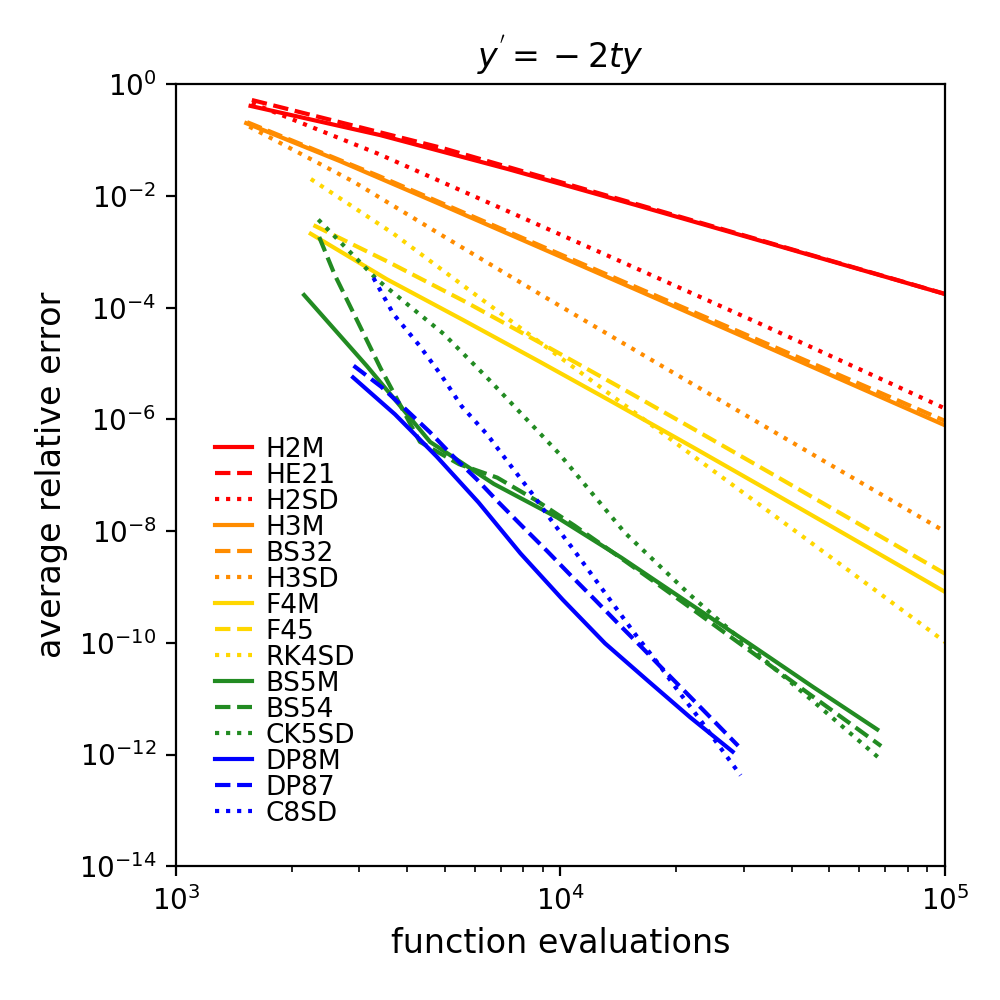
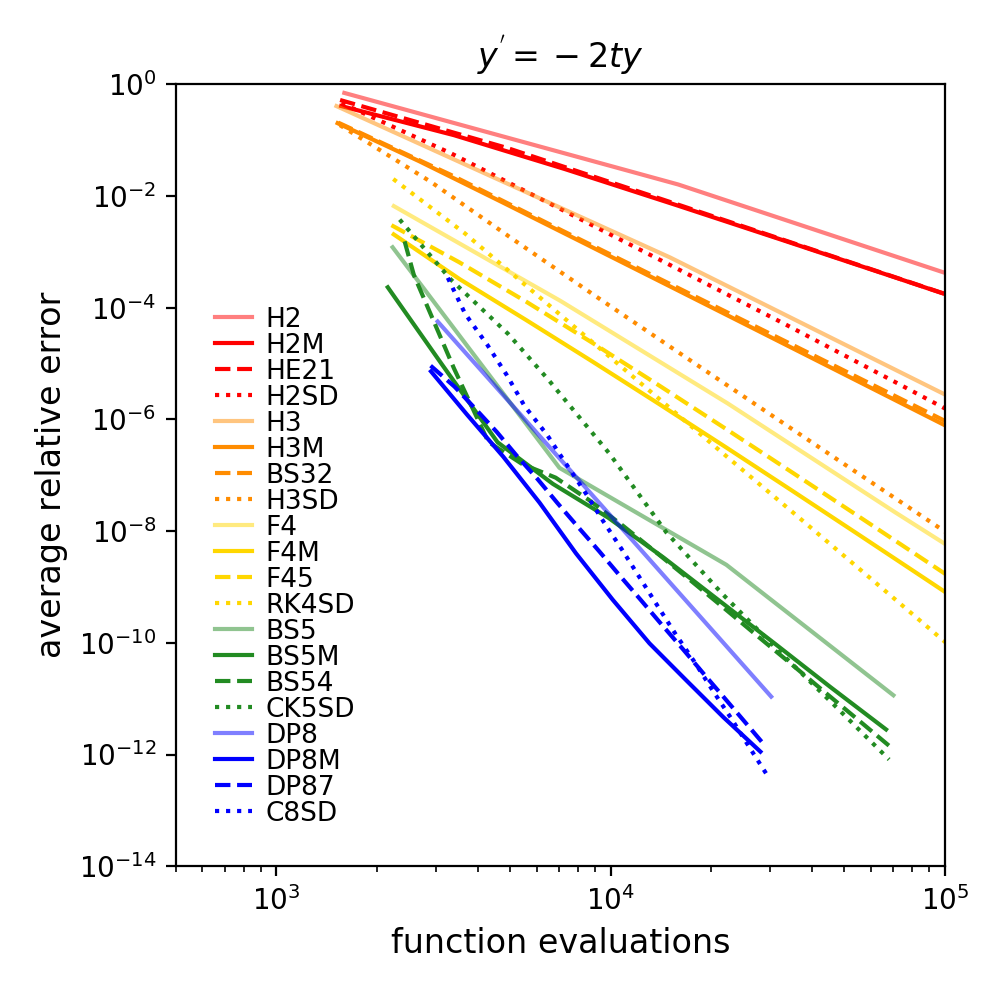
added fixed time step to efficiency plot

diff --git a/test_efficiency_explicit.py b/test_efficiency_explicit.py
@@ -74,7 +74,7 @@ if solution is 'logistic':
 
 if order == 0 or order == 2:
     if solution is 'gaussian':
-        eps_0 = 10**np.arange(-0.57, -4., -1)
+        eps_0 = 10**np.arange(-1.6, -4., -1)
         eps_1 = 10**np.arange(-2.25, -9.25, -1)
         eps_2 = 4 * 10**np.arange(-2., -7., -1)
         eps_3 = 4 * 10**np.arange(-2.4, -9., -1)
@@ -101,7 +101,7 @@ if order == 0 or order == 2:
     error_2, evals_2 = method_efficiency(y0, t0, tf, y_prime, parameters, adaptive_2, method_RK2_2, eps_2, norm, error_type, average_error)
     error_3, evals_3 = method_efficiency(y0, t0, tf, y_prime, parameters, adaptive_3, method_RK2_3, eps_3, norm, error_type, average_error)
 
-    np.savetxt('efficiency_plots/' + solution + '/data/efficiency_RK2.dat',     np.concatenate((error_0, evals_0), axis = 1))
+    np.savetxt('efficiency_plots/' + solution + '/data/efficiency_RK2.dat',   np.concatenate((error_0, evals_0), axis = 1))
     np.savetxt('efficiency_plots/' + solution + '/data/efficiency_RK2_M.dat', np.concatenate((error_1, evals_1), axis = 1))
     np.savetxt('efficiency_plots/' + solution + '/data/efficiency_RK2_E.dat', np.concatenate((error_2, evals_2), axis = 1))
     np.savetxt('efficiency_plots/' + solution + '/data/efficiency_RK2_D.dat', np.concatenate((error_3, evals_3), axis = 1))
@@ -121,6 +121,7 @@ error_RK2_3, evals_RK2_3 = efficiency_3[:,0], efficiency_3[:,1]
 
 # RK3 peformance
 #---------------------------------------------------------------------------
+method_RK3_0 = 'H3'
 method_RK3_1 = 'H3'
 method_RK3_2 = 'BS32'
 method_RK3_3 = 'H3'
@@ -131,6 +132,8 @@ if solution is 'inverse_power':
 
 if order == 0 or order == 3:
     if solution is 'gaussian':
+        # eps_0 = 10**np.arange(-0.4, -4., -1)
+        eps_0 = 10**np.arange(-1.4, -4., -1)
         eps_1 = 10**np.arange(-2.2, -11.2, -1)
         eps_2 = 10**np.arange(-2.8, -8.8, -1)
         eps_3 = 10**np.arange(-2.1, -11., -1)
@@ -151,18 +154,22 @@ if order == 0 or order == 3:
         eps_2 = 10**np.arange(-5., -10., -1)
         eps_3 = 10**np.arange(-3.9, -11., -1)
 
+    error_0, evals_0 = method_efficiency(y0, t0, tf, y_prime, parameters, adaptive_0, method_RK3_0, eps_0, norm, error_type, average_error)
     error_1, evals_1 = method_efficiency(y0, t0, tf, y_prime, parameters, adaptive_1, method_RK3_1, eps_1, norm, error_type, average_error)
     error_2, evals_2 = method_efficiency(y0, t0, tf, y_prime, parameters, adaptive_2, method_RK3_2, eps_2, norm, error_type, average_error)
     error_3, evals_3 = method_efficiency(y0, t0, tf, y_prime, parameters, adaptive_3, method_RK3_3, eps_3, norm, error_type, average_error)
 
+    np.savetxt('efficiency_plots/' + solution + '/data/efficiency_RK3.dat',   np.concatenate((error_0, evals_0), axis = 1))
     np.savetxt('efficiency_plots/' + solution + '/data/efficiency_RK3_M.dat', np.concatenate((error_1, evals_1), axis = 1))
     np.savetxt('efficiency_plots/' + solution + '/data/efficiency_RK3_E.dat', np.concatenate((error_2, evals_2), axis = 1))
     np.savetxt('efficiency_plots/' + solution + '/data/efficiency_RK3_D.dat', np.concatenate((error_3, evals_3), axis = 1))
 
+efficiency_0 = np.loadtxt('efficiency_plots/' + solution + '/data/efficiency_RK3.dat')
 efficiency_1 = np.loadtxt('efficiency_plots/' + solution + '/data/efficiency_RK3_M.dat')
 efficiency_2 = np.loadtxt('efficiency_plots/' + solution + '/data/efficiency_RK3_E.dat')
 efficiency_3 = np.loadtxt('efficiency_plots/' + solution + '/data/efficiency_RK3_D.dat')
 
+error_RK3_0, evals_RK3_0 = efficiency_0[:,0], efficiency_0[:,1]
 error_RK3_1, evals_RK3_1 = efficiency_1[:,0], efficiency_1[:,1]
 error_RK3_2, evals_RK3_2 = efficiency_2[:,0], efficiency_2[:,1]
 error_RK3_3, evals_RK3_3 = efficiency_3[:,0], efficiency_3[:,1]
@@ -172,15 +179,16 @@ error_RK3_3, evals_RK3_3 = efficiency_3[:,0], efficiency_3[:,1]
 
 # RK4 peformance
 #---------------------------------------------------------------------------
+method_RK4_0 = 'F4'
 method_RK4_1 = 'F4'
 method_RK4_2 = 'F45'
 method_RK4_3 = 'RK4'
 
 if order == 0 or order == 4:
     if solution is 'gaussian':
+        eps_0 = 10**np.arange(-1.35, -3.85, -0.5)
         eps_1 = 10**np.arange(-2.5, -12., -1)
         eps_2 = 10**np.arange(-4., -14., -1)
-        # eps_2 = 10**np.arange(-1., -4., -1)   # for F41
         eps_3 = 10**np.arange(-3.1, -13., -1)
     elif solution is 'logistic':
         eps_1 = 10**np.arange(-8.5, -20., -1)
@@ -200,18 +208,22 @@ if order == 0 or order == 4:
         eps_2 = 10**np.arange(-5.5, -13., -1)
         eps_3 = 10**np.arange(-4.6, -13., -1)
 
+    error_0, evals_0 = method_efficiency(y0, t0, tf, y_prime, parameters, adaptive_0, method_RK4_0, eps_0, norm, error_type, average_error)
     error_1, evals_1 = method_efficiency(y0, t0, tf, y_prime, parameters, adaptive_1, method_RK4_1, eps_1, norm, error_type, average_error)
     error_2, evals_2 = method_efficiency(y0, t0, tf, y_prime, parameters, adaptive_2, method_RK4_2, eps_2, norm, error_type, average_error)
     error_3, evals_3 = method_efficiency(y0, t0, tf, y_prime, parameters, adaptive_3, method_RK4_3, eps_3, norm, error_type, average_error)
 
+    np.savetxt('efficiency_plots/' + solution + '/data/efficiency_RK4.dat',   np.concatenate((error_0, evals_0), axis = 1))
     np.savetxt('efficiency_plots/' + solution + '/data/efficiency_RK4_M.dat', np.concatenate((error_1, evals_1), axis = 1))
     np.savetxt('efficiency_plots/' + solution + '/data/efficiency_RK4_E.dat', np.concatenate((error_2, evals_2), axis = 1))
     np.savetxt('efficiency_plots/' + solution + '/data/efficiency_RK4_D.dat', np.concatenate((error_3, evals_3), axis = 1))
 
+efficiency_0 = np.loadtxt('efficiency_plots/' + solution + '/data/efficiency_RK4.dat')
 efficiency_1 = np.loadtxt('efficiency_plots/' + solution + '/data/efficiency_RK4_M.dat')
 efficiency_2 = np.loadtxt('efficiency_plots/' + solution + '/data/efficiency_RK4_E.dat')
 efficiency_3 = np.loadtxt('efficiency_plots/' + solution + '/data/efficiency_RK4_D.dat')
 
+error_RK4_0, evals_RK4_0 = efficiency_0[:,0], efficiency_0[:,1]
 error_RK4_1, evals_RK4_1 = efficiency_1[:,0], efficiency_1[:,1]
 error_RK4_2, evals_RK4_2 = efficiency_2[:,0], efficiency_2[:,1]
 error_RK4_3, evals_RK4_3 = efficiency_3[:,0], efficiency_3[:,1]
@@ -221,6 +233,7 @@ error_RK4_3, evals_RK4_3 = efficiency_3[:,0], efficiency_3[:,1]
 
 # RK5 peformance
 #---------------------------------------------------------------------------
+method_RK5_0 = 'BS5'
 method_RK5_1 = 'BS5'
 method_RK5_2 = 'BS54'
 method_RK5_3 = 'BS5'
@@ -236,6 +249,7 @@ elif solution is 'logistic':
 
 if order == 0 or order == 5:
     if solution is 'gaussian':
+        eps_0 = 10**np.arange(-1.2, -3.2, -0.5)
         eps_1 = 10**np.arange(-2., -12., -1)
         eps_2 = 10**np.arange(-5.3, -13., -0.5)
         eps_3 = 10**np.arange(-3.9, -13.9, -1)
@@ -256,18 +270,22 @@ if order == 0 or order == 5:
         eps_2 = 10**np.arange(-7.2, -13.2, -0.5)
         eps_3 = 10**np.arange(-5.7, -13.7, -1)
 
-    error_1, evals_1 = method_efficiency(y0, t0, tf, y_prime, parameters, adaptive_1, method_RK5_1, eps_1, norm, error_type, average_error)
-    error_2, evals_2 = method_efficiency(y0, t0, tf, y_prime, parameters, adaptive_2, method_RK5_2, eps_2, norm, error_type, average_error)
-    error_3, evals_3 = method_efficiency(y0, t0, tf, y_prime, parameters, adaptive_3, method_RK5_3, eps_3, norm, error_type, average_error)
+    error_0, evals_0 = method_efficiency(y0, t0, tf, y_prime, parameters, adaptive_0, method_RK5_0, eps_0, norm, error_type, average_error)
+    # error_1, evals_1 = method_efficiency(y0, t0, tf, y_prime, parameters, adaptive_1, method_RK5_1, eps_1, norm, error_type, average_error)
+    # error_2, evals_2 = method_efficiency(y0, t0, tf, y_prime, parameters, adaptive_2, method_RK5_2, eps_2, norm, error_type, average_error)
+    # error_3, evals_3 = method_efficiency(y0, t0, tf, y_prime, parameters, adaptive_3, method_RK5_3, eps_3, norm, error_type, average_error)
 
-    np.savetxt('efficiency_plots/' + solution + '/data/efficiency_RK5_M.dat', np.concatenate((error_1, evals_1), axis = 1))
-    np.savetxt('efficiency_plots/' + solution + '/data/efficiency_RK5_E.dat', np.concatenate((error_2, evals_2), axis = 1))
-    np.savetxt('efficiency_plots/' + solution + '/data/efficiency_RK5_D.dat', np.concatenate((error_3, evals_3), axis = 1))
+    np.savetxt('efficiency_plots/' + solution + '/data/efficiency_RK5.dat',   np.concatenate((error_0, evals_0), axis = 1))
+    # np.savetxt('efficiency_plots/' + solution + '/data/efficiency_RK5_M.dat', np.concatenate((error_1, evals_1), axis = 1))
+    # np.savetxt('efficiency_plots/' + solution + '/data/efficiency_RK5_E.dat', np.concatenate((error_2, evals_2), axis = 1))
+    # np.savetxt('efficiency_plots/' + solution + '/data/efficiency_RK5_D.dat', np.concatenate((error_3, evals_3), axis = 1))
 
+efficiency_0 = np.loadtxt('efficiency_plots/' + solution + '/data/efficiency_RK5.dat')
 efficiency_1 = np.loadtxt('efficiency_plots/' + solution + '/data/efficiency_RK5_M.dat')
 efficiency_2 = np.loadtxt('efficiency_plots/' + solution + '/data/efficiency_RK5_E.dat')
 efficiency_3 = np.loadtxt('efficiency_plots/' + solution + '/data/efficiency_RK5_D.dat')
 
+error_RK5_0, evals_RK5_0 = efficiency_0[:,0], efficiency_0[:,1]
 error_RK5_1, evals_RK5_1 = efficiency_1[:,0], efficiency_1[:,1]
 error_RK5_2, evals_RK5_2 = efficiency_2[:,0], efficiency_2[:,1]
 error_RK5_3, evals_RK5_3 = efficiency_3[:,0], efficiency_3[:,1]
@@ -277,6 +295,7 @@ error_RK5_3, evals_RK5_3 = efficiency_3[:,0], efficiency_3[:,1]
 
 # RK8 peformance
 #---------------------------------------------------------------------------
+method_RK8_0 = 'DP8'
 method_RK8_1 = 'DP8'
 method_RK8_2 = 'DP87'
 method_RK8_3 = 'SP8'
@@ -294,9 +313,9 @@ elif solution is 'inverse_power':
 
 if order == 0 or order == 8:
     if solution is 'gaussian':
+        eps_0 = 10**np.arange(-1.1, -2.6, -0.5)
         eps_1 = 10**np.arange(-2., -12., -1)
         eps_2 = 10**np.arange(-6.5, -15., -0.5)
-        # eps_2 = 10**np.arange(-0.5, -3.5, -0.5)
         eps_3 = 10**np.arange(-5., -14., -0.5)
     elif solution is 'logistic':
         eps_1 = 10**np.arange(-1., -22., -1)
@@ -315,18 +334,22 @@ if order == 0 or order == 8:
         eps_2 = 10**np.arange(-8.5, -14.5, -0.5)
         eps_3 = 10**np.arange(-7., -14., -1)
 
-    error_1, evals_1 = method_efficiency(y0, t0, tf, y_prime, parameters, adaptive_1, method_RK8_1, eps_1, norm, error_type, average_error)
-    error_2, evals_2 = method_efficiency(y0, t0, tf, y_prime, parameters, adaptive_2, method_RK8_2, eps_2, norm, error_type, average_error)
-    error_3, evals_3 = method_efficiency(y0, t0, tf, y_prime, parameters, adaptive_3, method_RK8_3, eps_3, norm, error_type, average_error)
+    error_0, evals_0 = method_efficiency(y0, t0, tf, y_prime, parameters, adaptive_0, method_RK8_0, eps_0, norm, error_type, average_error)
+    # error_1, evals_1 = method_efficiency(y0, t0, tf, y_prime, parameters, adaptive_1, method_RK8_1, eps_1, norm, error_type, average_error)
+    # error_2, evals_2 = method_efficiency(y0, t0, tf, y_prime, parameters, adaptive_2, method_RK8_2, eps_2, norm, error_type, average_error)
+    # error_3, evals_3 = method_efficiency(y0, t0, tf, y_prime, parameters, adaptive_3, method_RK8_3, eps_3, norm, error_type, average_error)
 
-    np.savetxt('efficiency_plots/' + solution + '/data/efficiency_RK8_M.dat', np.concatenate((error_1, evals_1), axis = 1))
-    np.savetxt('efficiency_plots/' + solution + '/data/efficiency_RK8_E.dat', np.concatenate((error_2, evals_2), axis = 1))
-    np.savetxt('efficiency_plots/' + solution + '/data/efficiency_RK8_D.dat', np.concatenate((error_3, evals_3), axis = 1))
+    np.savetxt('efficiency_plots/' + solution + '/data/efficiency_RK8.dat',   np.concatenate((error_0, evals_0), axis = 1))
+    # np.savetxt('efficiency_plots/' + solution + '/data/efficiency_RK8_M.dat', np.concatenate((error_1, evals_1), axis = 1))
+    # np.savetxt('efficiency_plots/' + solution + '/data/efficiency_RK8_E.dat', np.concatenate((error_2, evals_2), axis = 1))
+    # np.savetxt('efficiency_plots/' + solution + '/data/efficiency_RK8_D.dat', np.concatenate((error_3, evals_3), axis = 1))
 
+efficiency_0 = np.loadtxt('efficiency_plots/' + solution + '/data/efficiency_RK8.dat')
 efficiency_1 = np.loadtxt('efficiency_plots/' + solution + '/data/efficiency_RK8_M.dat')
 efficiency_2 = np.loadtxt('efficiency_plots/' + solution + '/data/efficiency_RK8_E.dat')
 efficiency_3 = np.loadtxt('efficiency_plots/' + solution + '/data/efficiency_RK8_D.dat')
 
+error_RK8_0, evals_RK8_0 = efficiency_0[:,0], efficiency_0[:,1]
 error_RK8_1, evals_RK8_1 = efficiency_1[:,0], efficiency_1[:,1]
 error_RK8_2, evals_RK8_2 = efficiency_2[:,0], efficiency_2[:,1]
 error_RK8_3, evals_RK8_3 = efficiency_3[:,0], efficiency_3[:,1]
@@ -336,25 +359,29 @@ error_RK8_3, evals_RK8_3 = efficiency_3[:,0], efficiency_3[:,1]
 
 # efficiency plot
 #---------------------------------------------------------------------------
-plt.figure(figsize = (5, 5))
+plt.figure(figsize = (5,5))
 
 plt.plot(evals_RK2_0, error_RK2_0, 'red',         label = method_RK2_0,        linewidth = 1.5, alpha = 0.5)
 plt.plot(evals_RK2_1, error_RK2_1, 'red',         label = method_RK2_1 + 'M',  linewidth = 1.5)
 plt.plot(evals_RK2_2, error_RK2_2, 'red',         label = method_RK2_2,        linestyle = 'dashed', linewidth = 1.5)
 plt.plot(evals_RK2_3, error_RK2_3, 'red',         label = method_RK2_3 + 'SD', linestyle = 'dotted', linewidth = 1.5)
 
+plt.plot(evals_RK3_0, error_RK3_0, 'darkorange',  label = method_RK3_0,        linewidth = 1.5, alpha = 0.5)
 plt.plot(evals_RK3_1, error_RK3_1, 'darkorange',  label = method_RK3_1 + 'M',  linewidth = 1.5)
 plt.plot(evals_RK3_2, error_RK3_2, 'darkorange',  label = method_RK3_2,        linestyle = 'dashed', linewidth = 1.5)
 plt.plot(evals_RK3_3, error_RK3_3, 'darkorange',  label = method_RK3_3 + 'SD', linestyle = 'dotted', linewidth = 1.5)
 
+plt.plot(evals_RK4_0, error_RK4_0, 'gold',        label = method_RK4_0,        linewidth = 1.5, alpha = 0.5)
 plt.plot(evals_RK4_1, error_RK4_1, 'gold',        label = method_RK4_1 + 'M',  linewidth = 1.5)
 plt.plot(evals_RK4_2, error_RK4_2, 'gold',        label = method_RK4_2,        linestyle = 'dashed', linewidth = 1.5)
 plt.plot(evals_RK4_3, error_RK4_3, 'gold',        label = method_RK4_3 + 'SD', linestyle = 'dotted', linewidth = 1.5)
 
+plt.plot(evals_RK5_0, error_RK5_0, 'forestgreen', label = method_RK5_0,        linewidth = 1.5, alpha = 0.5)
 plt.plot(evals_RK5_1, error_RK5_1, 'forestgreen', label = method_RK5_1 + 'M',  linewidth = 1.5)
 plt.plot(evals_RK5_2, error_RK5_2, 'forestgreen', label = method_RK5_2,        linestyle = 'dashed', linewidth = 1.5)
 plt.plot(evals_RK5_3, error_RK5_3, 'forestgreen', label = method_RK5_3 + 'SD', linestyle = 'dotted', linewidth = 1.5)
 
+plt.plot(evals_RK8_0, error_RK8_0, 'blue',        label = method_RK8_0,        linewidth = 1.5, alpha = 0.5)
 plt.plot(evals_RK8_1, error_RK8_1, 'blue',        label = method_RK8_1 + 'M',  linewidth = 1.5)
 plt.plot(evals_RK8_2, error_RK8_2, 'blue',        label = method_RK8_2,        linestyle = 'dashed', linewidth = 1.5)
 plt.plot(evals_RK8_3, error_RK8_3, 'blue',        label = method_RK8_3 + 'SD', linestyle = 'dotted', linewidth = 1.5)
@@ -370,7 +397,13 @@ plt.xlabel('function evaluations', fontsize = 12)
 plt.legend(fontsize = 9.5, borderpad = 1, labelspacing = 0, handlelength = 1.4, handletextpad = 0.5, frameon = False)
 plt.tight_layout()
 plt.savefig('efficiency_plots/' + solution + '/' + solution + '_efficiency.png', dpi = 200)
-plt.show()
+# plt.show()
+
+
+
+
+
+
 
 
 

diff --git a/dictionaries.py b/dictionaries.py
@@ -10,7 +10,7 @@ from multistep_table import (adams_explicit_dict,
 							 numerical_differentiation_formula_dict)
 
 
-ode_method_dict = standard_runge_kutta_dict.copy()				# combine dictionaries
+ode_method_dict = standard_runge_kutta_dict.copy()				# combine table dictionaries
 ode_method_dict.update(embedded_runge_kutta_dict)
 ode_method_dict.update(adams_explicit_dict)
 ode_method_dict.update(adams_implicit_dict)
